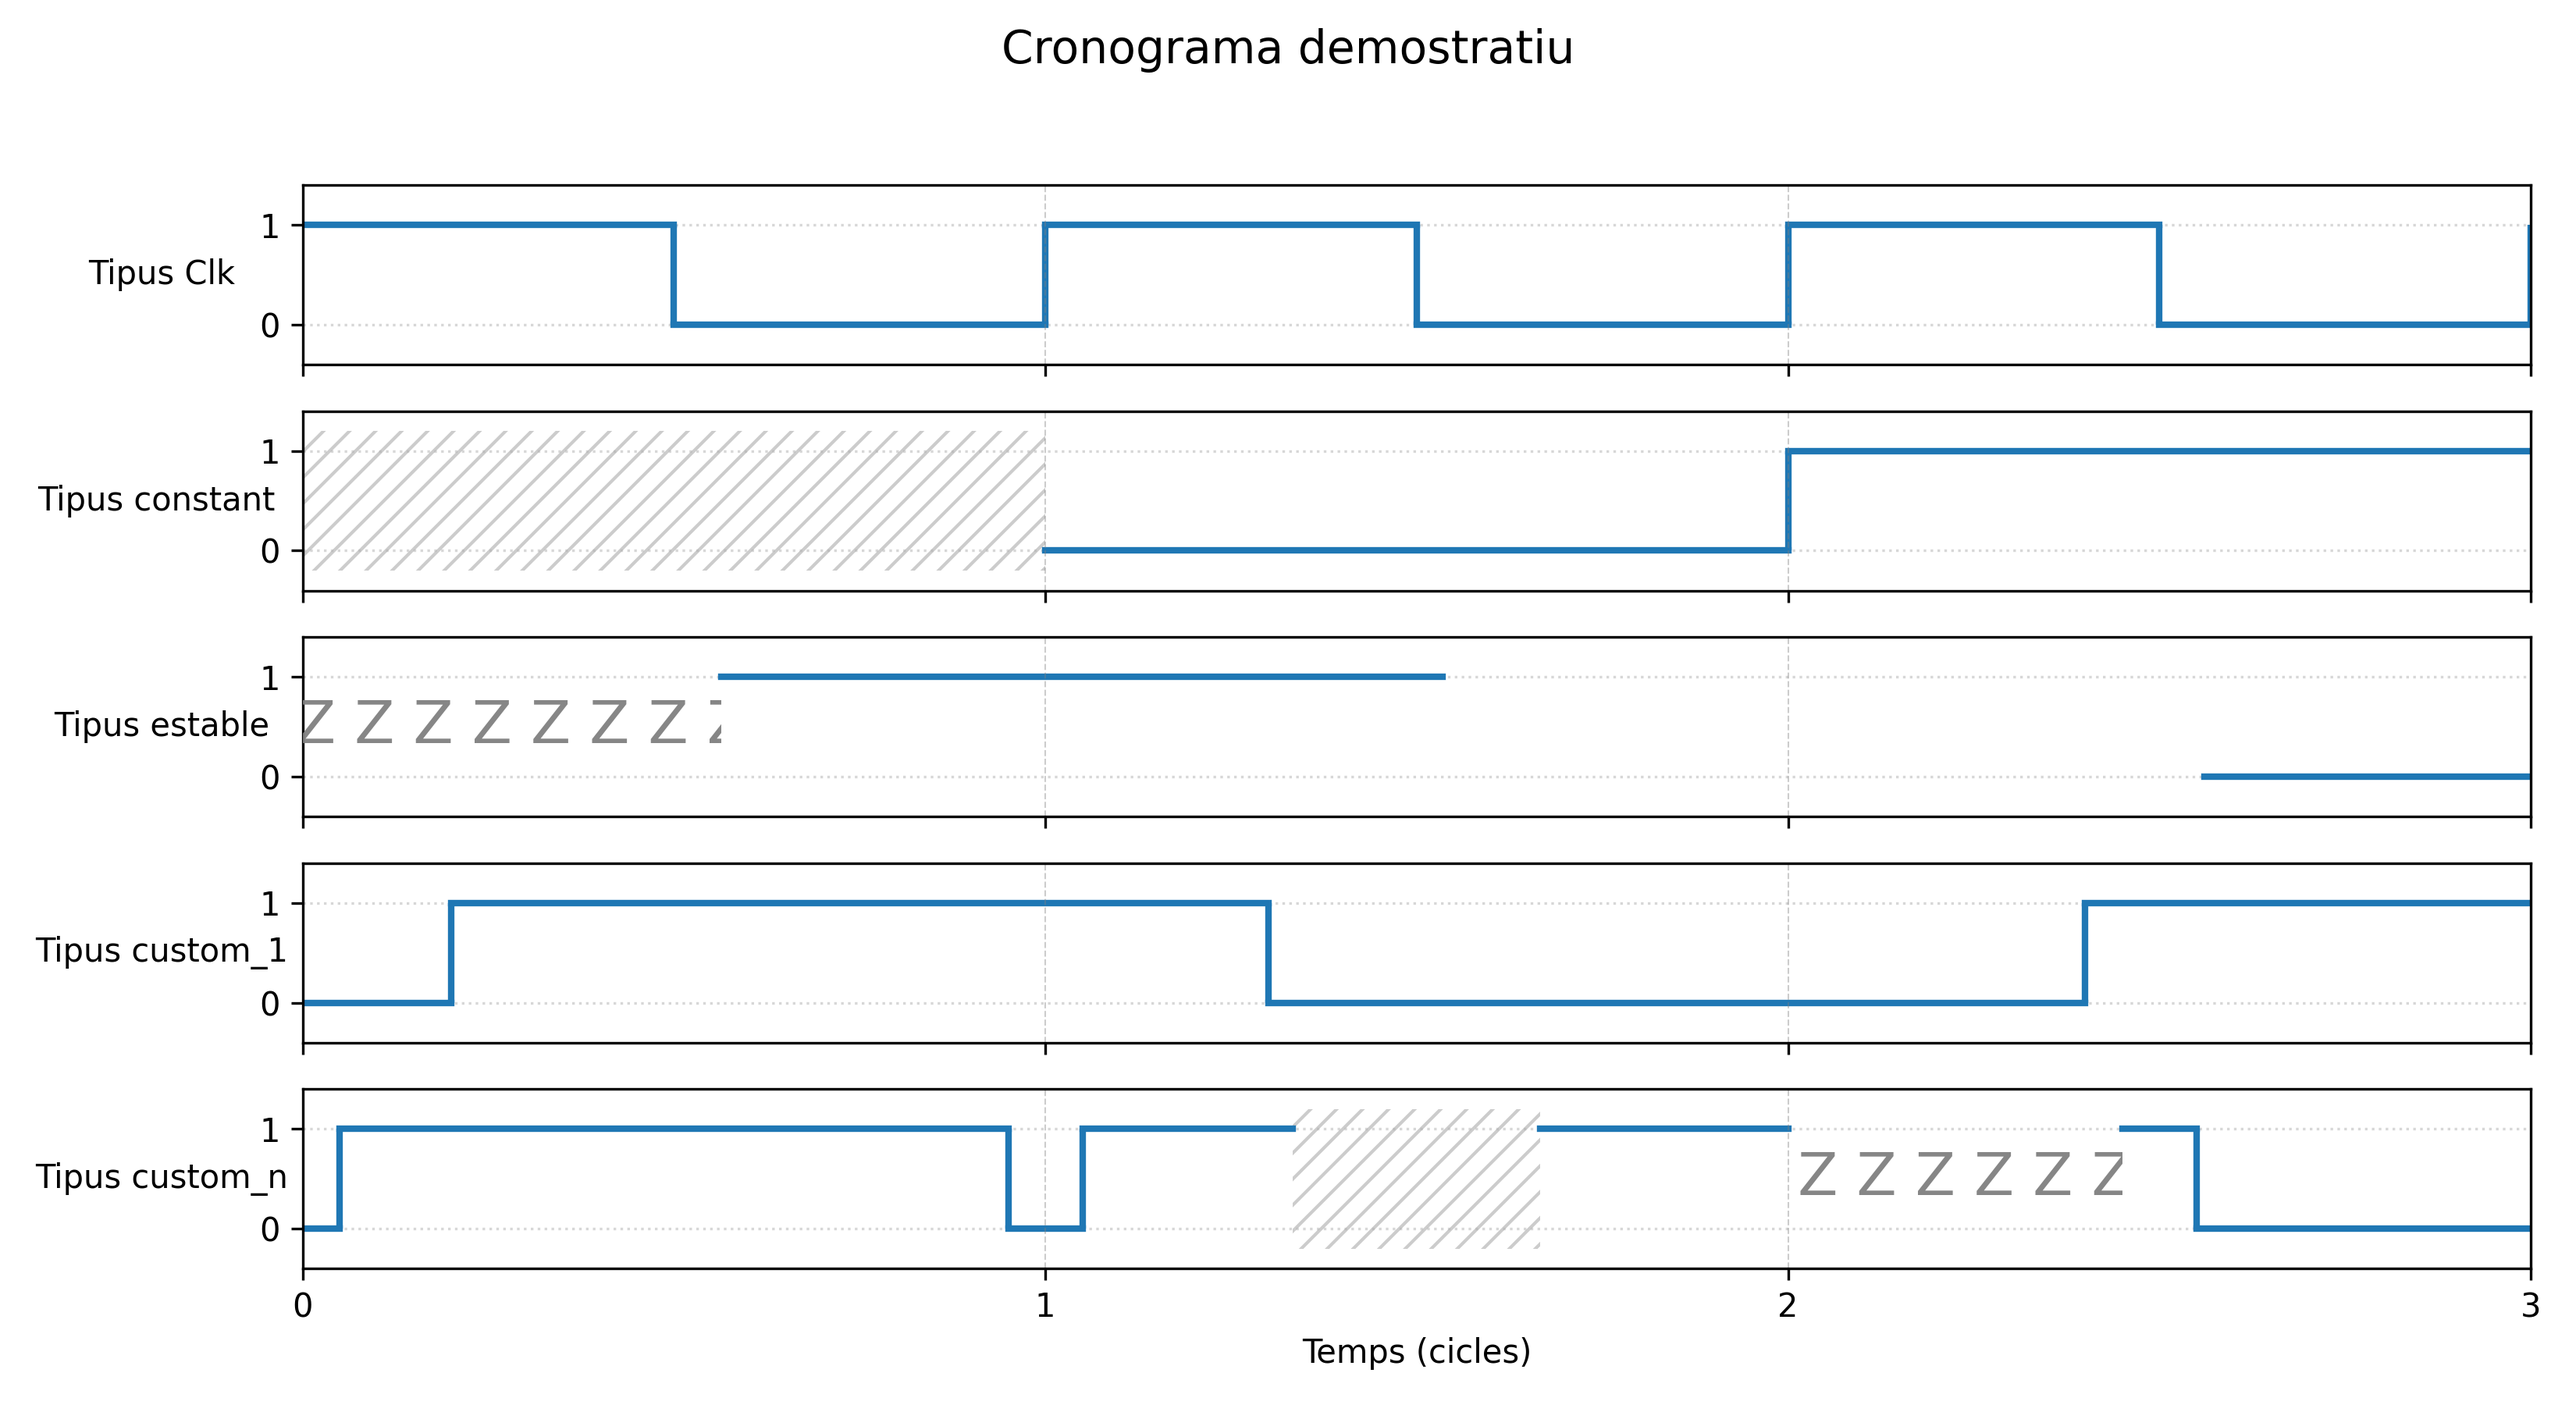
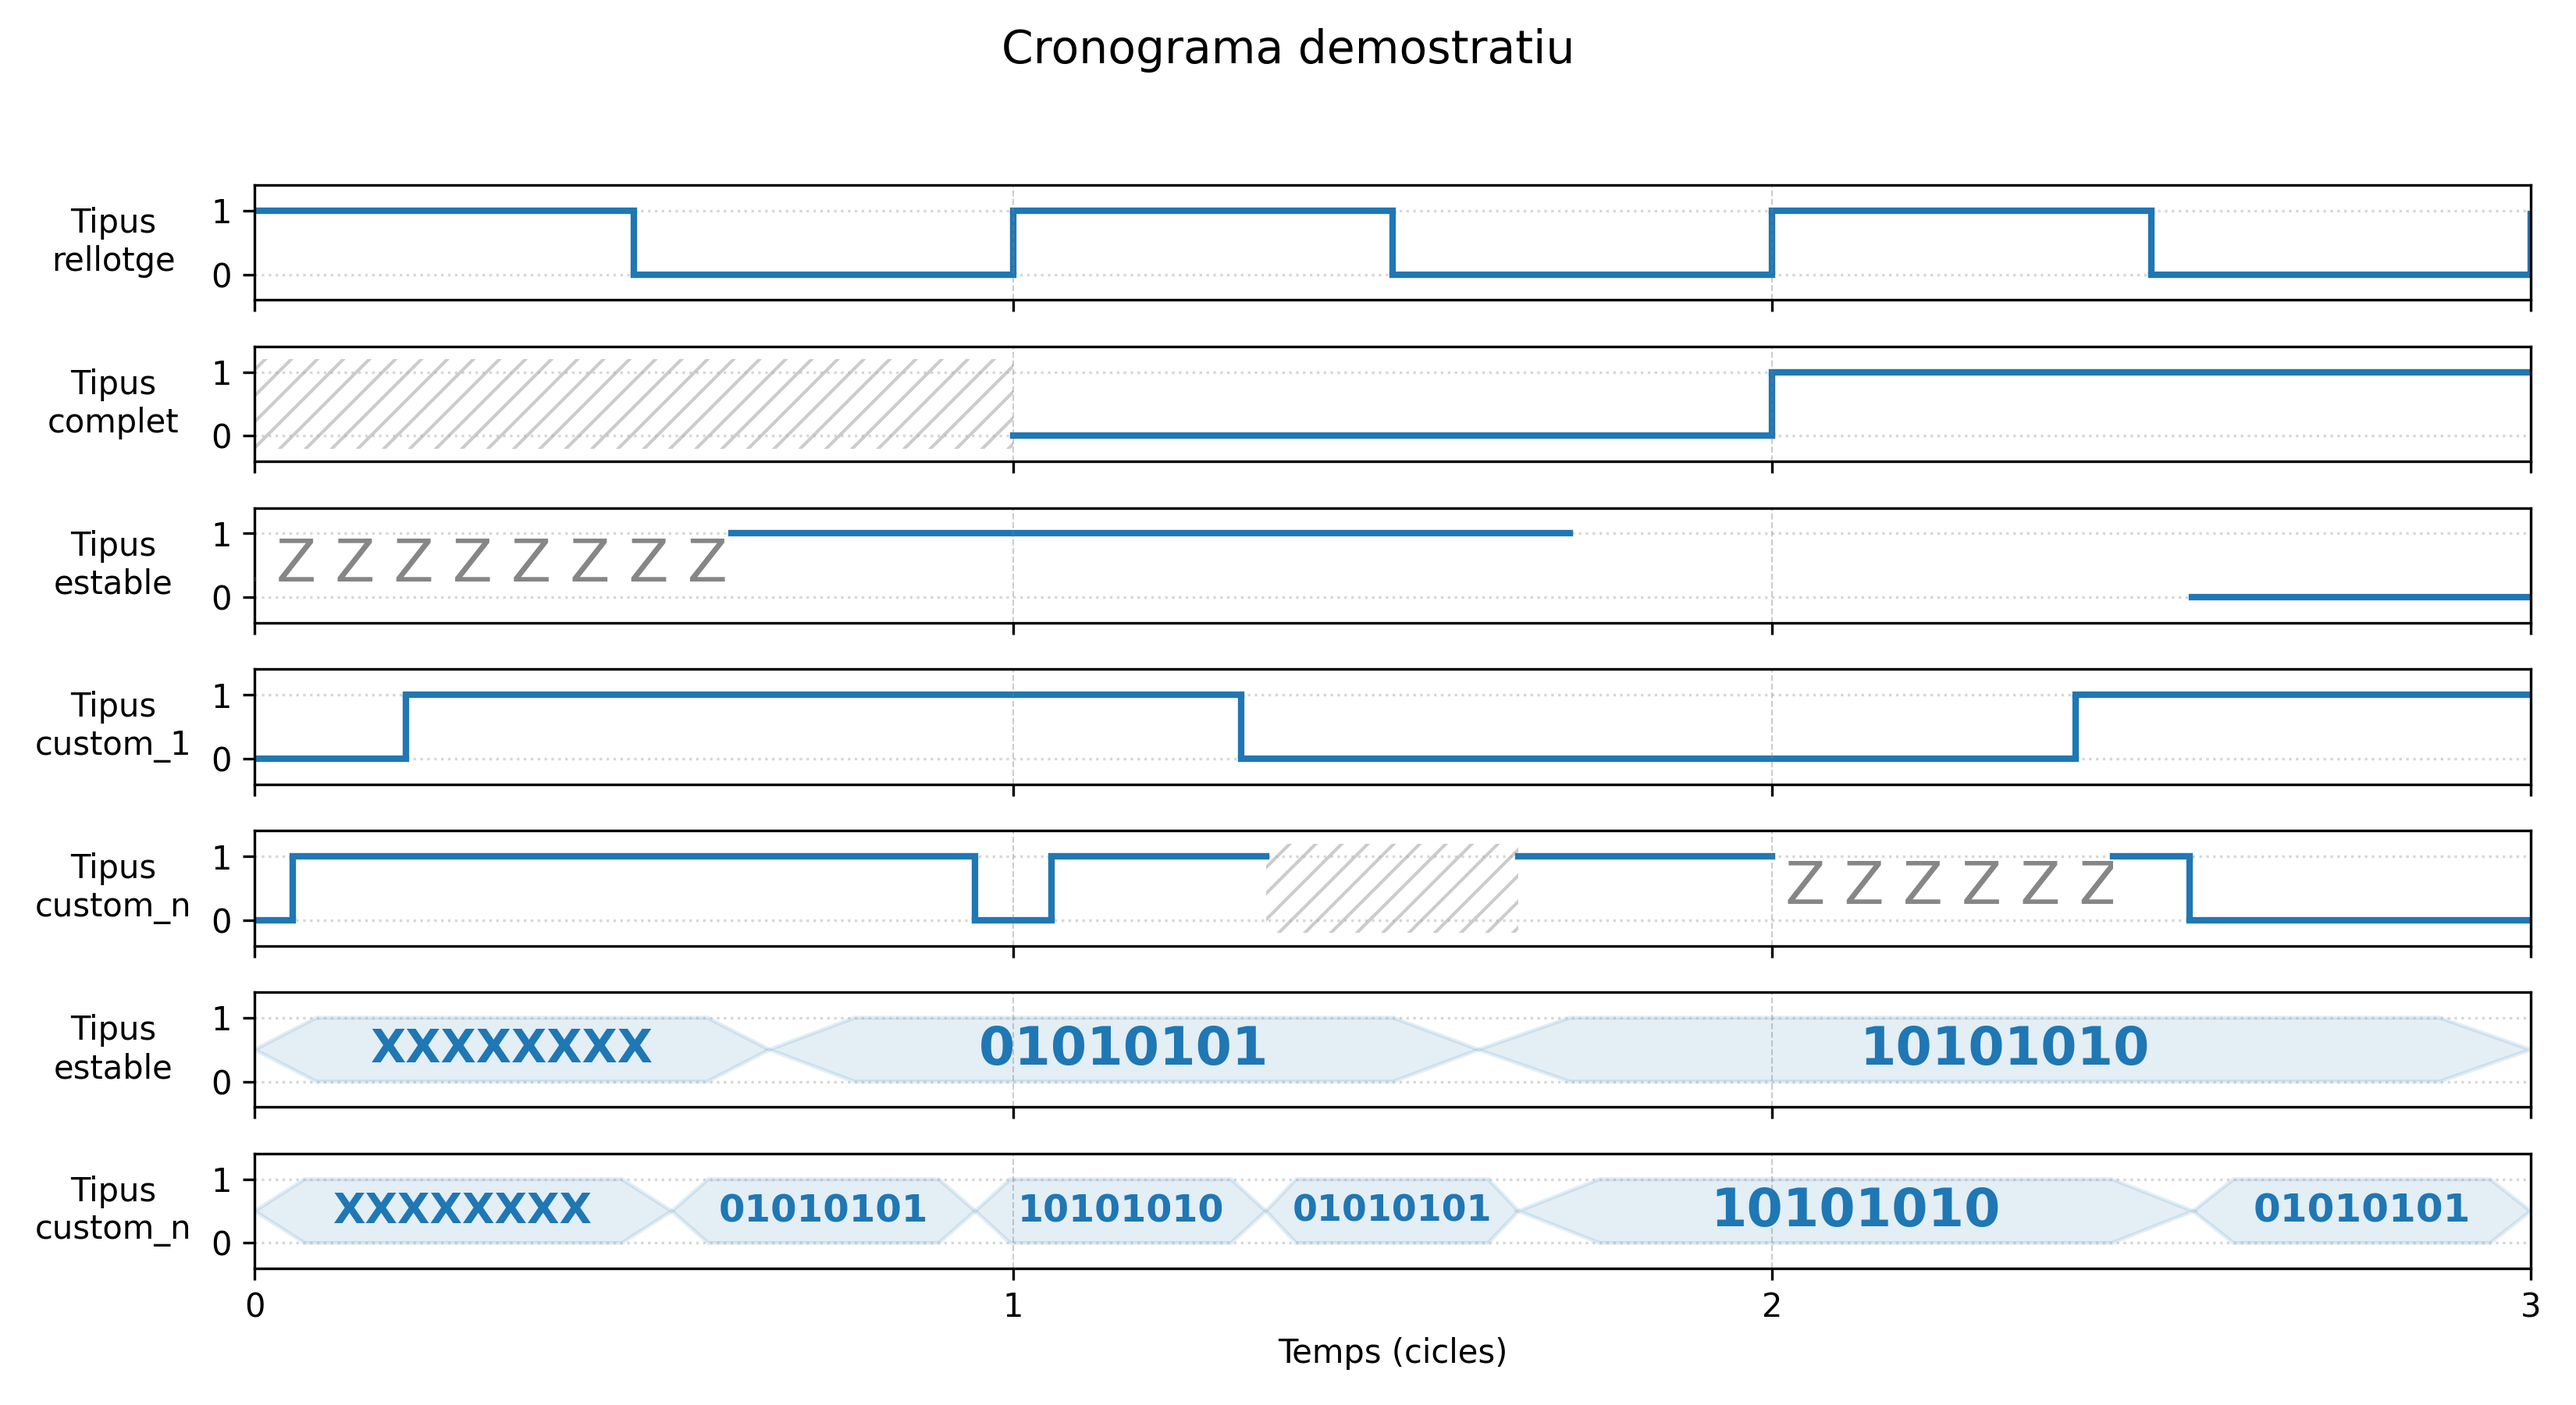
Afegim que els valors puguin ser de busos, multi-caràcter i afegim un petit script per a invocar al programa i crear el cronograma d'exemple

diff --git a/README.md b/README.md
@@ -22,6 +22,7 @@ Febrer 2026
   - **estable** → transicions al·leatòriament entre 0.2 i 0.5 cicles abans del flanc de pujada
   - **complet** → canvis exactes a cada inici de cicle
   - **custom** → transicions definides manualment (per exemple "0.25;0.5;0.75" per transicions a un quart, mig i tres quarts de cicle)
+- ✔ Si un interval de **--valors** té més d'un caràcter (p. ex. "0101"), es representa amb **capsa hexagonal** amb el text centrat.
 - ✔ Suport per valors especials:
   - **0 / 1** → valors digitals estàndard
   - **X** → indeterminació (patró diagonal)
@@ -36,15 +37,20 @@ Febrer 2026
 
 Aquesta comanda ha generat la imatge d'exemple:
 ```
-python3 ./cronogrames.py --titol "Cronograma demostratiu"  \
-  --cicles 3 --sortida "/tmp/exemple.png"                         \
-  --nom "Tipus Clk"       --tipus "rellotge"                      \
-  --nom "Tipus constant " --tipus "complet"  --valors "X01"       \
-  --nom "Tipus estable"   --tipus "estable"  --valors "Z1B0"      \
-  --nom "Tipus custom_1"  --tipus "custom_1" --valors "0101"      \
-        --transicio "0.2;0.3;0.4"                                 \
-  --nom "Tipus custom_n"  --tipus "custom_n" --valors "0101X1Z10" \
-        --transicio "0.05;0.95;1.05;1.333;1.666;2;2.45;2.55;"
+python3 ./cronogrames.py --titol "Cronograma demostratiu"            \
+  --cicles 3 --sortida "/tmp/exemple_devel.png"                      \
+  --nom $'Tipus\nrellotge' --tipus "rellotge"                        \
+  --nom $'Tipus\ncomplet'  --tipus "complet"  --valors "X01"         \
+  --nom $'Tipus\nestable'  --tipus "estable"  --valors "Z1B0"        \
+  --nom $'Tipus\ncustom_1' --tipus "custom_1" --valors "0101"        \
+        --transicions "0.2;0.3;0.4"                                  \
+  --nom $'Tipus\ncustom_n' --tipus "custom_n" --valors "0101X1Z10"   \
+        --transicions "0.05;0.95;1.05;1.333;1.666;2;2.45;2.55;"      \
+  --nom $'Tipus\nestable'  --tipus "estable"                         \
+        --valors "XXXXXXXX;01010101;10101010"                        \
+  --nom $'Tipus\ncustom_n' --tipus "custom_n"                        \
+	--valors "XXXXXXXX;01010101;10101010;01010101;10101010;01010101" \
+        --transicions "0.55;0.95;1.333;1.666;2.555"
 ```
 
 ## Ajuda
@@ -52,7 +58,7 @@ python3 ./cronogrames.py --titol "Cronograma demostratiu"  \
 ```
 $ python3 ./cronogrames.py --help
 usage: cronogrames.py [-h] --titol TITOL --cicles CICLES [--sortida SORTIDA] [--nom NOM] [--tipus TIPUS]
-                      [--valors VALORS] [--transicio TRANSICIO]
+                      [--valors VALORS] [--transicions TRANSICIO]
 
 Generador de cronogrames digitals parametritzable.
 
@@ -64,14 +70,14 @@ Tipus de senyal admesos:
                  Accepta len(valors)=N o N+1.
   - custom_1   : Una transició per interval i→i+1,
                  transicions RELATIVES dins l’interval, en [0,1).
-                 Requereix paràmetre --transicio
+                 Requereix paràmetre --transicions
                  definint els instants de les transicions.
                  Requereix len(valors)=N o N+1.
   - custom_n   : senyal totalment a mida, longitud arbitrària.
                  Les transicions són EN TEMPS ABSOLUT, una per canvi de
                  valor, definides des de t=0. No hi ha periodicitat.
 
-Valors del senyal (caràcter per mostra):
+Valors del senyal (per interval):
   0 / 1  : nivells digitals.
   X      : indeterminat (hachurat).
   Z      : alta impedància (patró 'Z' repetit).
@@ -103,7 +109,7 @@ options:
   --nom NOM             Nom de la senyal (es pot repetir).
   --tipus TIPUS         Tipus: rellotge, complet, custom_1, custom_n, estable.
   --valors VALORS       Cadena de valors (0,1,X,Z,B).
-  --transicio TRANSICIO
+  --transicions TRANSICIO
                         Transicions separades per ';'. RELATIUS per custom_1, ABSOLUTS per custom_n.
 
 Exemples:
@@ -112,14 +118,14 @@ Exemples:
   programa.py --titol "Demo" --cicles 5 \
     --nom "Clk" --tipus rellotge \
     --nom "D0" --tipus custom_1 --valors 010100 \
-    --transicio "0.4;0.6;0.3;0.7;0.25" \
+    --transicions "0.4;0.6;0.3;0.7;0.25" \
     --sortida out1.png
 
   # Ex. amb custom_n (absolut, no cíclic)
   programa.py --titol "Senyal a mida" --cicles 3 \
     --nom "Clk" --tipus rellotge \
     --nom "S" --tipus custom_n --valors "0101010" \
-    --transicio "0.2;0.7;1.2;1.7;2.2;2.7" \
+    --transicions "0.2;0.7;1.2;1.7;2.2;2.7" \
     --sortida out2.png
 
   # Ex. complet i estable
